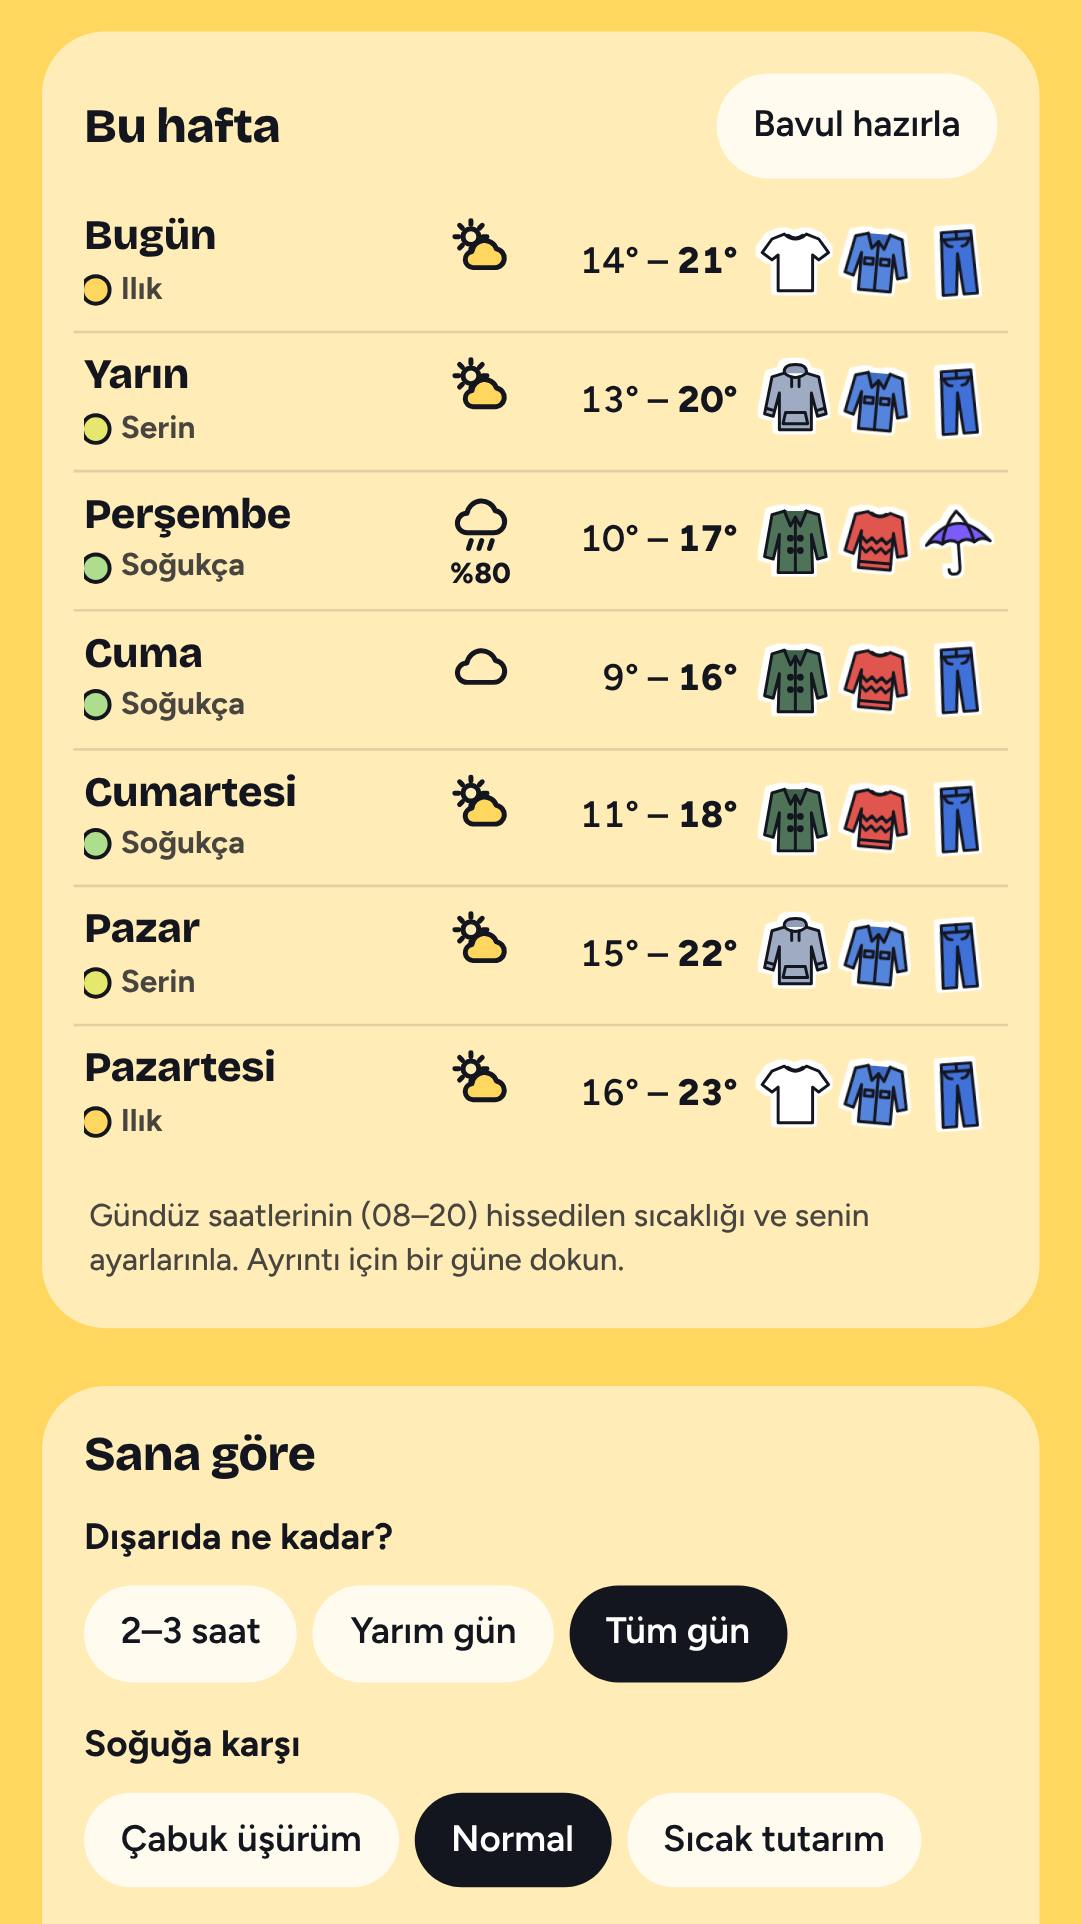
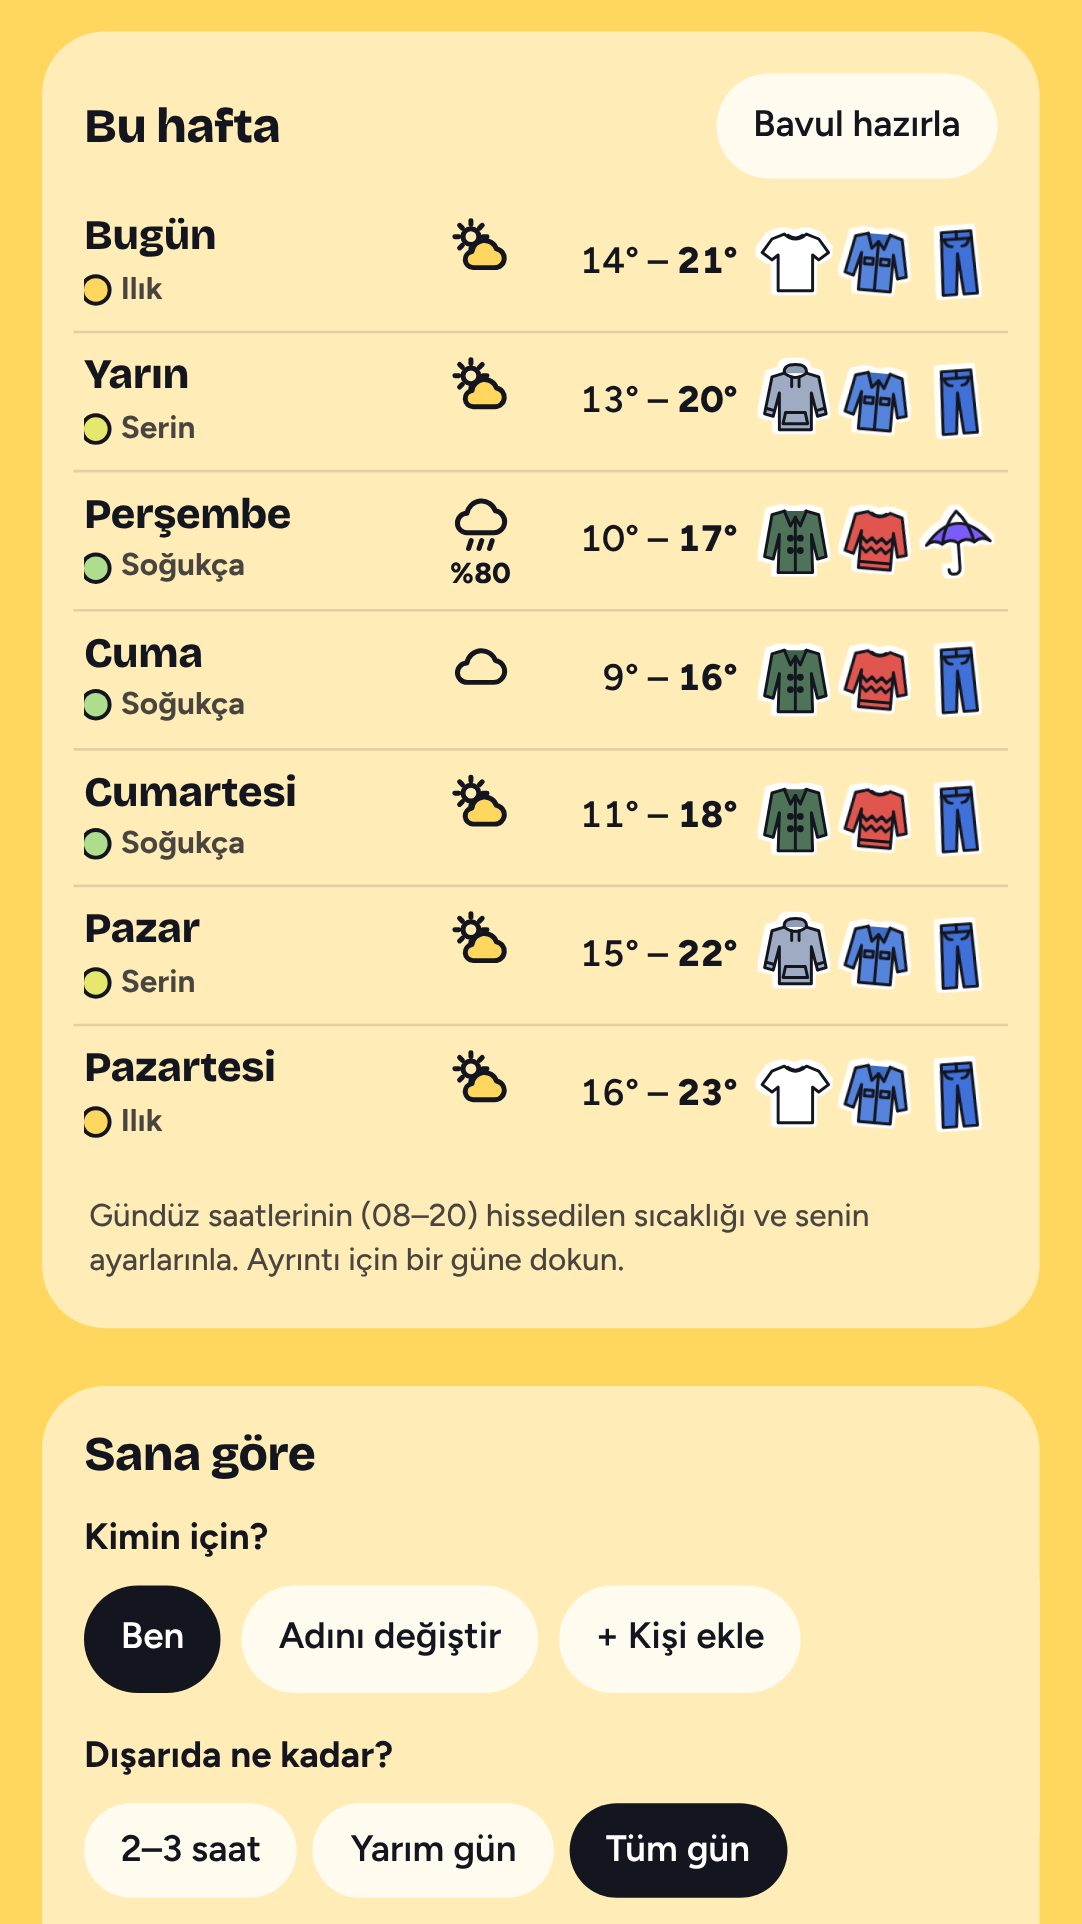
Mağaza ekran görüntüleri: Türkçe ve İngilizce, yayındaki hâliyle (MET Norway künyesi)
Claude-Session: https://claude.ai/code/session_01GVeiD9wVk58cdTMcuKfWye

Changed region(s): [[0.061, 0.7796, 0.854, 0.9979]]

diff --git a/store/play/screenshots/make-screenshots.js b/store/play/screenshots/make-screenshots.js
@@ -6,7 +6,7 @@
 //
 //   node store/play/screenshots/make-screenshots.js            # all scenes
 //   node store/play/screenshots/make-screenshots.js 03-gunum   # only some scenes
-//   SHOT_LANG=en node store/play/screenshots/make-screenshots.js   # TODO: English UI (skips until it exists)
+//   SHOT_LANG=en node store/play/screenshots/make-screenshots.js   # English UI → ./out/en/
 //
 // Size: 412×733 CSS px at device scale 2.625 → 1082×1924 px PNG (RGB, no alpha).
 // Google Play phone screenshots: JPEG or 24-bit PNG, each side 320–3840 px, long side at most twice the short side;
@@ -35,7 +35,7 @@ const sleep = (ms) => new Promise((r) => setTimeout(r, ms));
    (state => { state.lang = "en"; }) or a click on the language toggle. Until then SHOT_LANG=en skips every scene. */
 const LANGS = {
   tr: { locale: "tr-TR", seed: null },
-  en: null, // TODO: { locale: "en-US", seed: (state) => { state.lang = "en"; } }
+  en: { locale: "en-US", seed: (state) => { state.lang = "en"; } },
 };
 
 /* ---------------- time: everything happens on Tuesday 27 Oct 2026, Europe/Istanbul (UTC+3) ---------------- */
@@ -327,6 +327,8 @@ async function shoot(browser, srv, scene, lang) {
   await context.clock.setFixedTime(now);
   const log = [];
   await context.route("**/*", (r) => route(scene, now, srv.url, log, r));
+  // As published: the app talks to its own server (web/functions/api), so credits read "MET Norway".
+  await context.addInitScript((origin) => { window.NG_API = origin; }, new URL(srv.url).origin);
   await context.addInitScript(([k, v]) => {
     try { if (!sessionStorage.getItem("__seeded")) { sessionStorage.setItem("__seeded", "1"); localStorage.clear(); localStorage.setItem(k, v); } } catch (e) {}
   }, [KEY, JSON.stringify(state)]);
